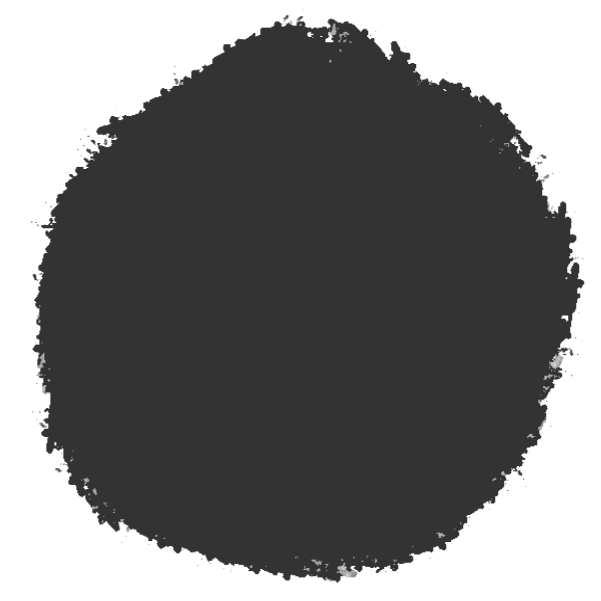
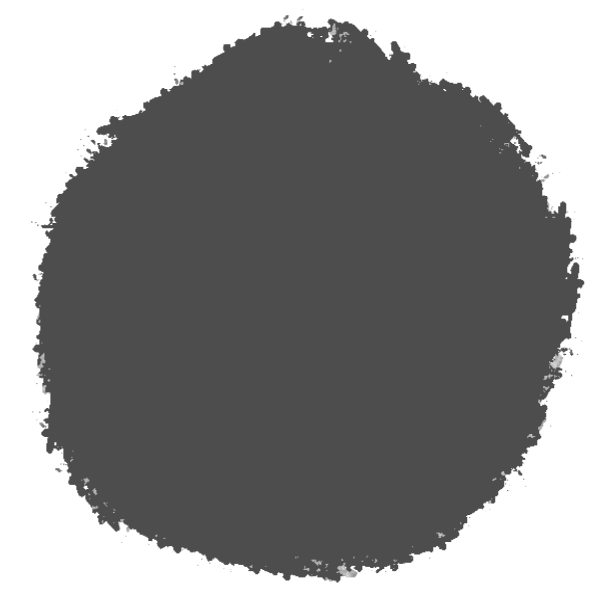
updated dot

diff --git a/src/pages/index.js b/src/pages/index.js
@@ -24,7 +24,7 @@ export default function Home() {
   const y = useTransform(scrollYProgress, [0, 1], ["0%", "85%"])
   const s2 = useTransform(scrollYProgress, [0, 1], [1, 1.4])
   const o2 = useTransform(scrollYProgress, [0.5, 1], [1, 0])
-  const r = useTransform(scrollYProgress, [0, 1], [0, 180])
+  const r = useTransform(scrollYProgress, [0, 1], [0, 80])
 
 
   return (

diff --git a/src/styles/globals.css b/src/styles/globals.css
@@ -48,7 +48,7 @@
   background-image: url("/dot.png");
   background-repeat: no-repeat;
   background-position: 50% 50%;
-  background-blend-mode: multiply;
+  /* background-blend-mode: multiply; */
   background-size: 100%;
   width: 10ch;
   height: 10ch;
